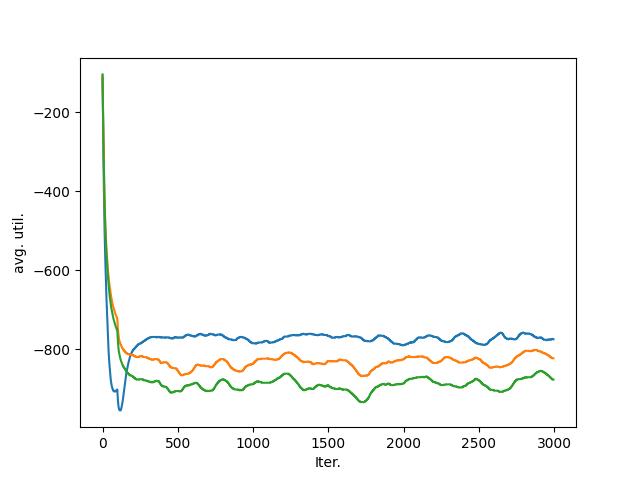
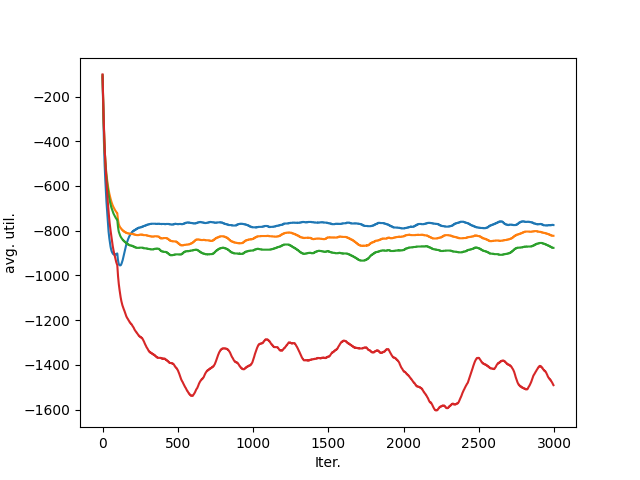
Final commit

diff --git a/modules/applications/queue.py b/modules/applications/queue.py
@@ -2,6 +2,8 @@ from modules.applications import Application
 from utils.distribution import Generator
 from modules.utils.load_utils import *
 
+DEPART_ALPHA = 0.98
+
 
 class QueueApplication(Application):
 
@@ -20,7 +22,8 @@ class QueueApplication(Application):
         self.assignment_history = list()
         self.avg_throughput = 0
         self.avg_throughput_alpha = avg_throughput_alpha
-        self.departure = 0
+        self.actual_departure = 0
+        self.expected_departure = 0
         self.load = 0
         self.loads_history = list()
         self.state_history = list()
@@ -37,14 +40,19 @@ class QueueApplication(Application):
         self.state_history.append(self.state)
         self.queue_length_history.append(self.queue_length)
         self.loads_history.append(self.load)
-        self.departure = min(self.queue_length + self.arrival,
-                             self.departure_generator.generate() * self.assignment)
+        departure = self.departure_generator.generate()
+        self.actual_departure = min(self.queue_length + self.arrival,
+                                    departure * self.assignment)
+        # self.expected_departure = (self.expected_departure * DEPART_ALPHA) + ((1 - DEPART_ALPHA) * min(departure, self.queue_length + self.arrival))
+        self.expected_departure = min(
+            departure, self.queue_length + self.arrival)
         self.avg_throughput *= (1 - self.avg_throughput_alpha)
-        self.avg_throughput += (self.avg_throughput_alpha * self.departure)
+        self.avg_throughput += (self.avg_throughput_alpha *
+                                self.actual_departure)
         avg_throughput = self.avg_throughput + 1e-3
         avg_throughput /= (1 - (1 -
                                 self.avg_throughput_alpha) ** (iteration + 1))
-        self.queue_length = self.queue_length + self.arrival - self.departure
+        self.queue_length = self.queue_length + self.arrival - self.actual_departure
         self.state = min(self.max_queue_length, self.queue_length)
         self.queue_length = self.state
         self.load = self.load_calculator.calculate_load(
@@ -54,10 +62,13 @@ class QueueApplication(Application):
         return self.queue_length
 
     def get_imm_throughput(self):
-        return self.departure
+        return self.actual_departure
 
     def get_avg_throughput(self):
         return self.avg_throughput
+
+    def get_exp_departure(self):
+        return self.expected_departure
 
     def get_load(self):
         return self.load

diff --git a/modules/applications/dist_app.py b/modules/applications/dist_app.py
@@ -12,6 +12,7 @@ class DistQueueApp(DistributedApplication):
         self.loads = np.zeros(self.cluster_size)
         self.load_balancer = load_balancer
         self.agent_len = agents_len
+        self.exp_departure = list()
 
     def update_dist_app(self, iteration, assignments):
         super().update_dist_app(iteration, assignments)
@@ -22,6 +23,7 @@ class DistQueueApp(DistributedApplication):
         per_queue_arrivals = self.load_balancer.balance_load(
             arrivals, self.loads)
 
+        self.exp_departure.clear()
         self.utility = 0
         for i, app in enumerate(self.applications):
             app: QueueApplication
@@ -31,6 +33,7 @@ class DistQueueApp(DistributedApplication):
 
             self.loads[i] = app.get_load()
             self.utility -= app.get_current_queue_length()
+            self.exp_departure.append(app.get_current_queue_length())
 
-    def stop(self, path):
-        return super().stop(path)
+    def get_more_data(self):
+        return np.array(self.exp_departure)

diff --git a/modules/agents/ftf_agent.py b/modules/agents/ftf_agent.py
@@ -1,5 +1,6 @@
 from modules.agents import Agent
 import numpy as np
+from modules.applications.dist_app import DistQueueApp
 
 from modules.policies.ftf_policy import ThemisPolicy
 
@@ -8,6 +9,7 @@ class ThemisAgent(Agent):
     def __init__(self, agent_id, weight, distributed_app, policy):
         super().__init__(agent_id, weight, distributed_app, policy)
         self.policy: ThemisPolicy
+        distributed_app: DistQueueApp
         self.init_demand = self.policy.get_demands(self.dist_app.get_state())
 
     def run_agent(self, iteration, assignments):
@@ -17,5 +19,5 @@ class ThemisAgent(Agent):
         return self.demands
 
     def get_more_data(self):
-        # return avg_throughputs
-        return self.dist_app.get_avg_throughput()
+        # return exp_departure
+        return self.dist_app.get_more_data()

diff --git a/modules/scheduler/ftf_scheduler.py b/modules/scheduler/ftf_scheduler.py
@@ -13,7 +13,6 @@ class FinishTimeFairnessScheduler(Scheduler):
         self.throughputs = data
 
     def run_scheduler(self, iteration, demands) -> list:
-        # q_lengths = demands.sum(axis=1)
         q_lengths = demands
         g_ex = self.get_g_ex()
         throughputs = self.throughputs.copy()

diff --git a/modules/applications/__init__.py b/modules/applications/__init__.py
@@ -50,3 +50,6 @@ class DistributedApplication:
             app.stop(app_path, id)
         np.savetxt(app_path + '/utility.csv',
                    self.utility_history, fmt='%d', delimiter=',')
+
+    def get_more_data(self):
+        return None
